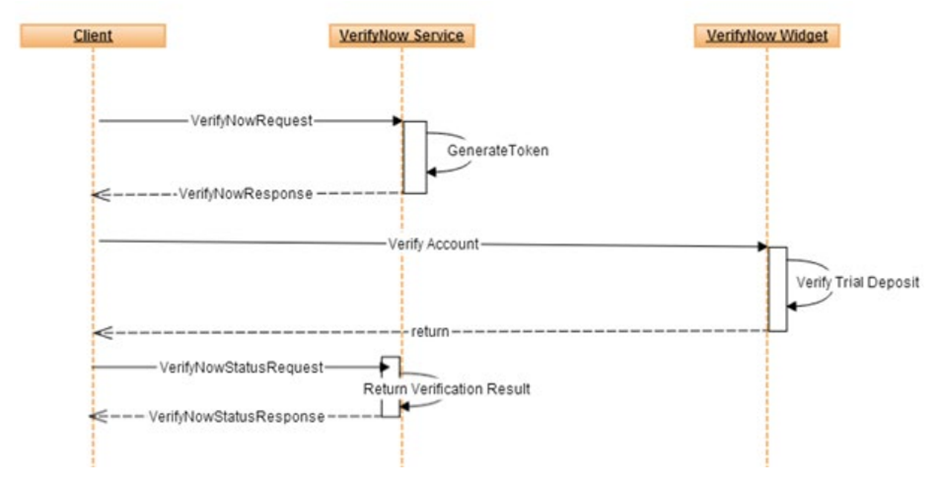
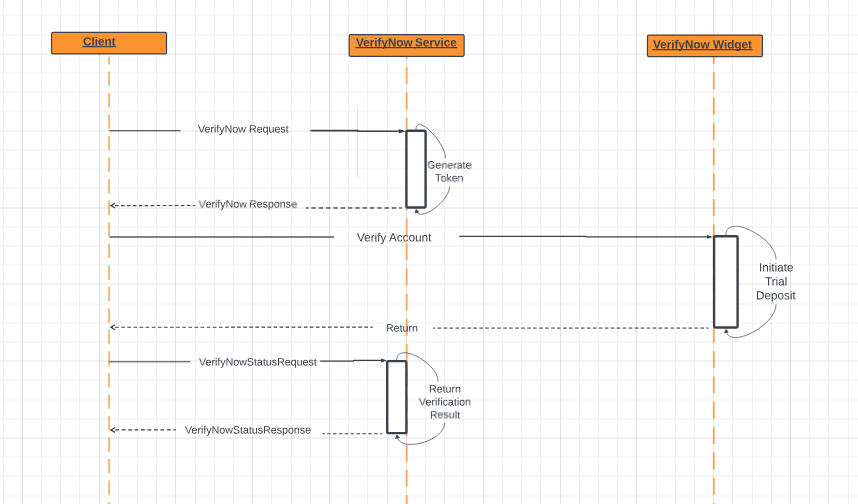
verification method flow added

Changed region(s): [[0.0, 0.0309, 1.0, 0.9568], [0.4545, 0.9877, 0.4848, 1.0]]

diff --git a/docs/verifynow-account-verification-method/instant-verification.md b/docs/verifynow-account-verification-method/instant-verification.md
@@ -1,10 +1,9 @@
-## Instant Verification
+## Instant (Risk Database) Verification
 
 This method provides instant bank account ownership verification using the Early Warning Services (EWS) account services and/or other available databases.
 
-
-
 VerifyNow performs instant account verification using the Customer Information/MICR Match component of a check printer’s database. This service matches the user’s name and the account information with information in the database.
+
 >**Note**<br/><br/>
  The instant account verification service only verifies DDA accounts. Savings, money market, and brokerage accounts are ineligible for account verification via this service.
 
@@ -12,17 +11,21 @@ VerifyNow performs instant account verification using the Customer Information/M
  
 >**Note**<br/><br/> The instant account verification service only verifies accounts with RTNs listed in the MICR Table.
 
-Instant verification is performed using the provided customer information and account details and the Early Warning Services (EWS) AOA database. EWS houses data contributed by various financial institutions that it uses to authenticate account ownership claims. EWS data is limited by the number of financial institutions that contribute to the product. EWS requires that clients contribute to the product to be allowed to use it.
+Instant verification is performed using the provided customer information and account details and the Early Warning Services (EWS) AOA database. EWS houses data contributed by various financial institutions with data elements including account holder names, address, tax ID, and additional elements leveraged that it uses to authenticate account ownership claims. EWS data is limited by the number of financial institutions that contribute to the product. EWS requires that clients contribute to the product to be allowed to use it.
 
 <center>
 
 ![Images](../../assets/images/instant-verification-process-flow.png)
+
+<b>Instant Verification Process Flow</b>
 
 </center>
 
 <center>
 
 ![Images](../../assets/images/instant-verification-sequence.png)
+
+<b>Instant Verification Sequence</b>
 
 </center>
 
@@ -52,8 +55,5 @@ Instant verification is performed using the provided customer information and ac
     b. If account ownership verification is inconclusive, Real-time verification or Trial Deposit verification can be initiated.
 
 ## See Also
-[Real Time Verification](?path=docs/verify-accounts-using-verifynow/real-time-verification.md)<br/>
-[Trial Deposit Verification](?path=docs/verify-accounts-using-verifynow/trial-deposit-verification.md)<br/>
-[Exit Points](?path=docs/exit-points.md)<br/>
-[Account Verification Status](?path=docs/account-verification-status.md)<br/>
-[Risk Controls](?path=docs/risk-controls.md)<br/>
+[Real Time Verification](?path=docs/verifynow-account-verification-method/real-time-verification.md)<br/>
+[Trial Deposit Verification](?path=docs/verifynow-account-verification-method/trial-deposit-verification.md)<br/>

diff --git a/docs/verifynow-account-verification-method/trial-deposit-verification.md b/docs/verifynow-account-verification-method/trial-deposit-verification.md
@@ -1,6 +1,6 @@
 ## Trial Deposit Verification
 
-This method verifies customer’s access to an external bank account. Two small trial deposits and one trial debit are made to the external bank account and the customer is required to verify the two deposit amounts. 
+This method verifies customer’s access to an external bank account. Two small trial deposits and one trial debit are made to the external bank account and the customer is required to verify the two deposit amounts.  
 
 >**Note**<br/><br/> The amount of the debit is equal to the sum of the two deposits.
 
@@ -15,6 +15,7 @@ Shown below is an example of how Trial Deposit Verification works.
 
 ![Images](../../assets/images/td-process-flow.png)
 
+<b>TRIAL DEPOSIT VERIFICATION PROCESS FLOW</b>
 </center>
 
 
@@ -22,13 +23,16 @@ Shown below is an example of how Trial Deposit Verification works.
 
 <center>
 
-![Images](../../assets/images/td-sequence.png)
+![Images](../../assets/images/td-sequence1.png)
 
+<b>TRIAL DEPOSIT INITIATE SEQUENCE</b>
 </center>
 
 <center>
 
-![Images](../../assets/images/td-sequence1.png)
+![Images](../../assets/images/td-sequence2.png)
+
+<b>TRIAL DEPOSIT VERIFICATION SEQUENCE</b>
 
 </center>
 
@@ -45,7 +49,7 @@ Step-by-Step Instruction for Trial Deposit Verification
 
 </center>
 
-5.	If the user selects the Trial Deposit verification method (“Verify with bank deposits”), VerifyNow initiates Trial Deposit verification. (If the user selects the Real-time verification option (“Verify your bank account instantly”), VerifyNow initiates Real-time verification. Please see [Real-Time Verification](?path=docs/verify-accounts-using-verifynow/real-time-verification.md) for more information.
+5.	If the user selects the Trial Deposit verification method (“Verify with bank deposits”), VerifyNow initiates Trial Deposit verification. (If the user selects the Real-time verification option (“Verify your bank account instantly”), VerifyNow initiates Real-time verification. Please see [Real-Time Verification](?path=docs/verifynow-account-verification-method/real-time-verification.md) for more information.
 
 6.	VerifyNow initiates Trial Deposit verification.
 7.	VerifyNow presents the user with instructions on how to verify the account using Trial Deposit verification.
@@ -74,8 +78,5 @@ Step-by-Step Instruction for Trial Deposit Verification
 11.	If the user does not return in time to complete trial deposit verification, the user is shown the trial deposit expired message and control is passed back to the client system.
 
 ## See Also
-[Real Time Verification](?path=docs/verify-accounts-using-verifynow/real-time-verification.md)<br/>
-[Exit Points](?path=docs/exit-points.md)<br/>
-[Account Verification Status](?path=docs/account-verification-status.md)<br/>
-[Risk Controls](?path=docs/risk-controls.md)<br/>
+[Real Time Verification](?path=docs/verifynow-account-verification-method/real-time-verification.md)<br/>
 

diff --git a/docs/verifynow-account-verification-method/real-time-verification.md b/docs/verifynow-account-verification-method/real-time-verification.md
@@ -1,4 +1,4 @@
-## Real Time Verification
+## Real-Time (using FI login) Verification
 
 This method provides real-time bank account ownership verification for customers who have online banking accounts. The applicant’s username and password for the banking website are required for verification. VerifyNow performs real-time account verification by comparing data input by the user with data collected from the web site of the financial institution that services the account. The user is verified as the account owner if the two sets of data match.
 
@@ -8,11 +8,14 @@ If login is successful, VerifyNow compares the applicant’s name and account nu
 
 ![Images](../../assets/images/rtv-process-flow.png)
 
+<b>REAL TIME VERIFICATION PROCESS FLOW</b>
 </center>
 
 <center>
 
 ![Images](../../assets/images/rtv-sequence.png)
+
+<b>REAL TIME VERIFICATION SEQUENCE</b>
 
 </center>
 
@@ -30,7 +33,7 @@ If login is successful, VerifyNow compares the applicant’s name and account nu
 
 </center>
 
-4.	If the user selects the Real-time verification method (“Verify your bank account instantly”), VerifyNow initiates Real-time verification.  (If the user selects the Trial Deposit verification method (“Verify with bank deposits”), VerifyNow initiates Trial Deposit verification. Please see [Trial Deposit Verification](?path=docs/verify-accounts-using-verifynow/trial-deposit-verification.md) for more information.
+4.	If the user selects the Real-time verification method (“Verify your bank account instantly”), VerifyNow initiates Real-time verification.  (If the user selects the Trial Deposit verification method (“Verify with bank deposits”), VerifyNow initiates Trial Deposit verification. Please see [Trial Deposit Verification](?path=docs/verifynow-account-verification-method/trial-deposit-verification.md) for more information.)
 
 
 5.	The user is asked to provide their username and password for the online banking portal where the user accesses their account.
@@ -64,7 +67,4 @@ If login is successful, VerifyNow compares the applicant’s name and account nu
 
 
 ## See Also
-[Trial Deposit Verification](?path=docs/verify-accounts-using-verifynow/trial-deposit-verification.md)<br/>
-[Exit Points](?path=docs/exit-points.md)<br/>
-[Account Verification Status](?path=docs/account-verification-status.md)<br/>
-[Risk Controls](?path=docs/risk-controls.md)<br/>
+[Trial Deposit Verification](?path=docs/verifynow-account-verification-method/trial-deposit-verification.md)<br/>

diff --git a/docs/verifynow-account-verification-method.md b/docs/verifynow-account-verification-method.md
@@ -1,0 +1,26 @@
+## VerifyNow - Account Verification Methods
+
+The Account Ownership verification service verifies account ownership by checking whether an account provided by a user exists, whether the user owns the account, and whether the account is active and in good standing.
+Account ownership verification is performed using the below three verification methods.
+&nbsp;
+
+<center>
+
+![image](../assets/images/verifynow-acc-verification-method.png)
+*Responsive UI Screens*
+
+</center>
+&nbsp;
+
+
+<!-- theme: info -->
+ 
+>**Note** <br><br>
+The client has the flexibility to specify at the home level and at the user level which account verification methods should be enabled. The specific verification method to be used for a user is passed by the client system in the verification request.
+
+&nbsp;
+
+<!-- theme: info -->
+ 
+>**Note** <br><br>
+A validation check is performed on the client request to confirm that it specifies the verification method to be used.
